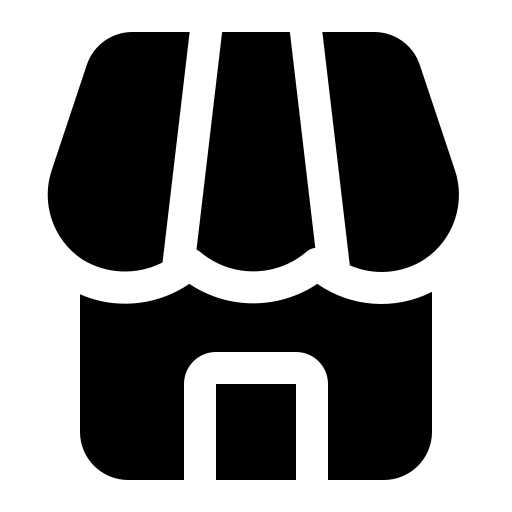
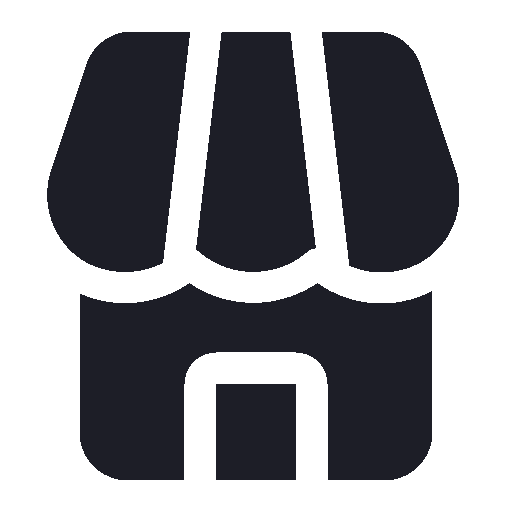
Created Navbar / Updated images / Created rest of the pages' html/css files

diff --git a/src/calc.html b/src/calc.html
@@ -1,0 +1,34 @@
+<!DOCTYPE html>
+<html lang="en">
+    <head>
+        <meta charset="UTF-8">
+        <meta http-equiv="X-UA-Compatible" content="IE=edge">
+        <meta name="viewport" content="width=device-width, initial-scale=1.0">
+        <title>Yieldly</title>
+        <link rel="stylesheet" href="css/global.css">
+        <link rel="stylesheet" href="css/calc.css">
+        <link rel="icon" href="assets/icon.png" type="image/png">
+    </head>
+    <body>
+        <h2>Calculator HTML</h2>
+        <div id="navbar">
+            <img id="dataBtn" src="assets/navbar/data.png" />
+            <img id="calcBtn" src="assets/navbar/calculator.png" />
+            <img id="marketBtn" src="assets/navbar/market.png" />
+            <img id="profileBtn" src="assets/navbar/profile.png" />
+        </div>
+    </body>
+    
+    <script>
+        document.getElementById('dataBtn').addEventListener('click', _ => {
+            window.location.href = 'data.html'
+        });
+        document.getElementById('marketBtn').addEventListener('click', _ => {
+            window.location.href = 'market.html'
+        });
+        document.getElementById('profileBtn').addEventListener('click', _ => {
+            window.location.href = 'profile.html'
+        });
+    </script>
+
+</html>

diff --git a/src/data.html b/src/data.html
@@ -1,0 +1,34 @@
+<!DOCTYPE html>
+<html lang="en">
+    <head>
+        <meta charset="UTF-8">
+        <meta http-equiv="X-UA-Compatible" content="IE=edge">
+        <meta name="viewport" content="width=device-width, initial-scale=1.0">
+        <title>Yieldly</title>
+        <link rel="stylesheet" href="css/global.css">
+        <link rel="stylesheet" href="css/data.css">
+        <link rel="icon" href="assets/icon.png" type="image/png">
+    </head>
+    <body>
+        <h2>DATA HTML</h2>
+        <div id="navbar">
+            <img id="dataBtn" src="assets/navbar/data.png" />
+            <img id="calcBtn" src="assets/navbar/calculator.png" />
+            <img id="marketBtn" src="assets/navbar/market.png" />
+            <img id="profileBtn" src="assets/navbar/profile.png" />
+        </div>
+    </body>
+    
+    <script>
+        document.getElementById('calcBtn').addEventListener('click', _ => {
+            window.location.href = 'calc.html'
+        });
+        document.getElementById('marketBtn').addEventListener('click', _ => {
+            window.location.href = 'market.html'
+        });
+        document.getElementById('profileBtn').addEventListener('click', _ => {
+            window.location.href = 'profile.html'
+        });
+    </script>
+
+</html>

diff --git a/src/market.html b/src/market.html
@@ -1,0 +1,34 @@
+<!DOCTYPE html>
+<html lang="en">
+    <head>
+        <meta charset="UTF-8">
+        <meta http-equiv="X-UA-Compatible" content="IE=edge">
+        <meta name="viewport" content="width=device-width, initial-scale=1.0">
+        <title>Yieldly</title>
+        <link rel="stylesheet" href="css/global.css">
+        <link rel="stylesheet" href="css/market.css">
+        <link rel="icon" href="assets/icon.png" type="image/png">
+    </head>
+    <body>
+        <h2>Market HTML</h2>
+        <div id="navbar">
+            <img id="dataBtn" src="assets/navbar/data.png" />
+            <img id="calcBtn" src="assets/navbar/calculator.png" />
+            <img id="marketBtn" src="assets/navbar/market.png" />
+            <img id="profileBtn" src="assets/navbar/profile.png" />
+        </div>
+    </body>
+    
+    <script>
+        document.getElementById('dataBtn').addEventListener('click', _ => {
+            window.location.href = 'data.html'
+        });
+        document.getElementById('calcBtn').addEventListener('click', _ => {
+            window.location.href = 'calc.html'
+        });
+        document.getElementById('profileBtn').addEventListener('click', _ => {
+            window.location.href = 'profile.html'
+        });
+    </script>
+
+</html>

diff --git a/src/css/calc.css b/src/css/calc.css
@@ -1,0 +1,20 @@
+body {
+    overflow: hidden;
+}
+
+#navbar {
+    position: fixed;
+    bottom: 0;
+
+    width: 100%;
+    height: 10vh;
+    background-color: var(--main);
+    box-shadow: inset 0px 4px 4px rgba(0, 0, 0, 0.25);
+}
+#navbar img{
+    display: inline-block;
+    margin-top: 1vh;
+    margin-left: 3.5vh;
+    width: 8vh;
+    height: 8vh;
+}

diff --git a/src/css/data.css b/src/css/data.css
@@ -1,0 +1,20 @@
+body {
+    overflow: hidden;
+}
+
+#navbar {
+    position: fixed;
+    bottom: 0;
+
+    width: 100%;
+    height: 10vh;
+    background-color: var(--main);
+    box-shadow: inset 0px 4px 4px rgba(0, 0, 0, 0.25);
+}
+#navbar img{
+    display: inline-block;
+    margin-top: 1vh;
+    margin-left: 3.5vh;
+    width: 8vh;
+    height: 8vh;
+}

diff --git a/src/css/market.css b/src/css/market.css
@@ -1,0 +1,20 @@
+body {
+    overflow: hidden;
+}
+
+#navbar {
+    position: fixed;
+    bottom: 0;
+
+    width: 100%;
+    height: 10vh;
+    background-color: var(--main);
+    box-shadow: inset 0px 4px 4px rgba(0, 0, 0, 0.25);
+}
+#navbar img{
+    display: inline-block;
+    margin-top: 1vh;
+    margin-left: 3.5vh;
+    width: 8vh;
+    height: 8vh;
+}
